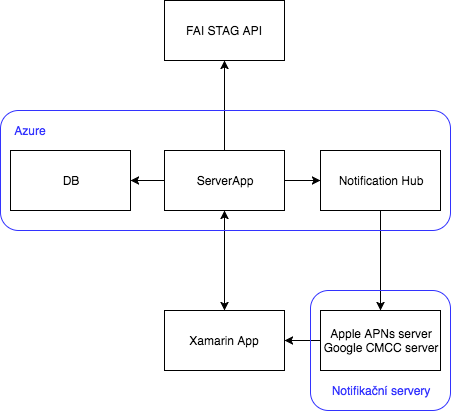
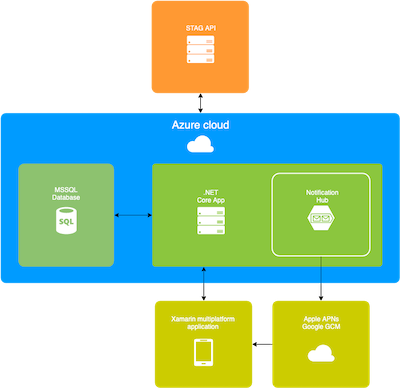
Update readme

diff --git a/README.md b/README.md
@@ -1,36 +1,85 @@
-# A Proposed Multiplatform Mobile Application fo Fast Communication Between Students and Teachers
+# A Proposed Multiplatform Mobile Application for Rapid Communication Between Students and Teachers
 
 ## What you find here
 
-This is collection of files used to write my bachelor thesis on Tomas Bata University in Zlin. Thesis is written in czech language.
+This is collection of files used to write my bachelor thesis on Tomas Bata University in Zlin. Thesis is written in czech language. Source codes of Xamarin app and .NET Core backend are in [separate repository](https://github.com/martingabriel/bachelor_thesis_code).
+
+Project goal is prototype of multiplatform mobile application for rapid and easy communication between students and teachers based on user timetable. Backend .NET core app get data from UTB information system STAG, but backend should be compatible with the others university information systems based on STAG with the same API.
 
 ## Project architecture
 
 Solution is based on Microsoft technologies like .NET Core, Azure, Xamarin, and many others.
 
+![architecture](img/architecture.png)
+
 Core features:
 
 1. **.NET Core server app**
-   - User autentification
-   - Get data from STAG UTB server
-   - API for Xamarin app
-   - Send push-notifications
-
+   - Provide user login
+   - Get user data from UTB information system STAG
+   - API for Xamarin app with UI in Swagger
+   - Send push-notifications via NotificationHub
+- Store data in MSSQL DB
+   
 2. **Xamarin multiplatform App**
    - View data from .NET Core server API
-   - Send messages to multiple users (server API)
-   - Receive messages as push-notifications
+   - Send messages to multiple users (via server API)
+   - Receive messages from server as push-notifications
+   - Rate lections based on user timetable
+   - View live rating of lections
 
-## STAG API services
+## How to use
 
-STAG API services that have been used in this project:
+1. Create NotificationHub on Azure and copy connection strings from Access Policies.
+2. Setup connection strings to notification hub in StudentsNotifier.iOS in class AppDelegate.cs:
 
-1. **getRozvrhovaAkceInfo** 
+```
+public class Constants
+{
+    // Azure app-specific connection string and hub path
+    public const string ConnectionString = "put your hub connection string here";
+    public const string NotificationHubPath = "put name of you hub here";
+}
+```
 
-2. **getRozvrhoveAkce**
+3. Setup connection strings to notification hub in StudentsNotifier.MobileAppService in class NotificationHubProxy.cs:
 
-3. **getUciteleRoakce**
+```
+string connectionString = "put your connection string here";
+string hubName = "put name of your hub here";
+```
 
-4. **getRozvrhByStudent**
+4. Generate certificate for push notifications based on your bundle ID and put it to Azure NotificationHub.
+5. Create Mobile App Service on Azure and build/publish StudentsNotifier.MobileAppService to Azure.
 
-5. **getRozvrhByUcitel**
+Warning: This prototype API is not secured. All data are open and messages are in plaintext. Keep it in mind if you want to use this prototype. Pull requests are welcome. 😍
+
+## Prototype examples
+
+Send message to students:
+
+![user login](gif/message_small.gif)
+
+> Message is send only to users in list.
+
+Receive message as push notification on real device:
+
+![message receive](gif/message_receive_small.gif)
+
+Lection rating request:
+
+![lection rating request](gif/rating_request_small.gif)
+
+Send anonymous votes to lection rating:
+
+![leciton rating vote](gif/rating_vote_small.gif)
+
+> All ratings are anonymous.
+
+Note: This is prototype of architecture, not sample of production UI or API.
+
+## Thanks ♥
+
+Big thanks to @ekral for management of this bachelor thesis.
+
+Also thanks to Tomas Bata Univesity in Zlin - Faculty of Applied Informatics for whole education. ![utb_logo](img/ikona40.png)
